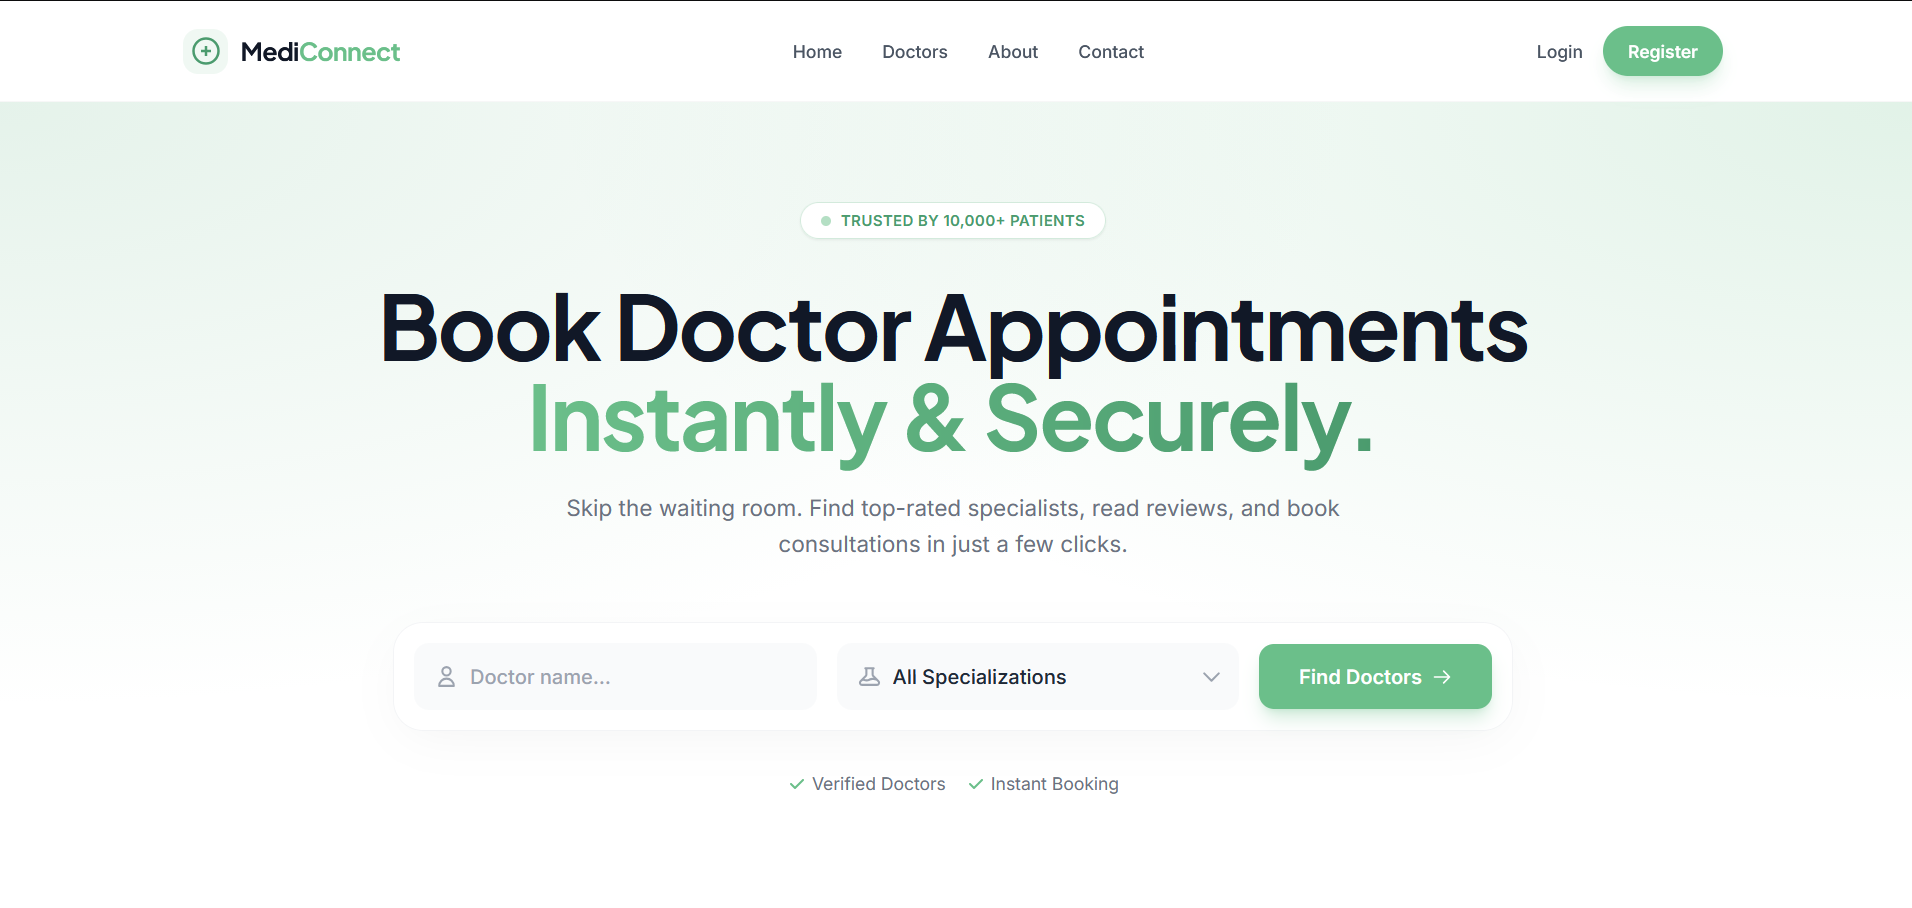
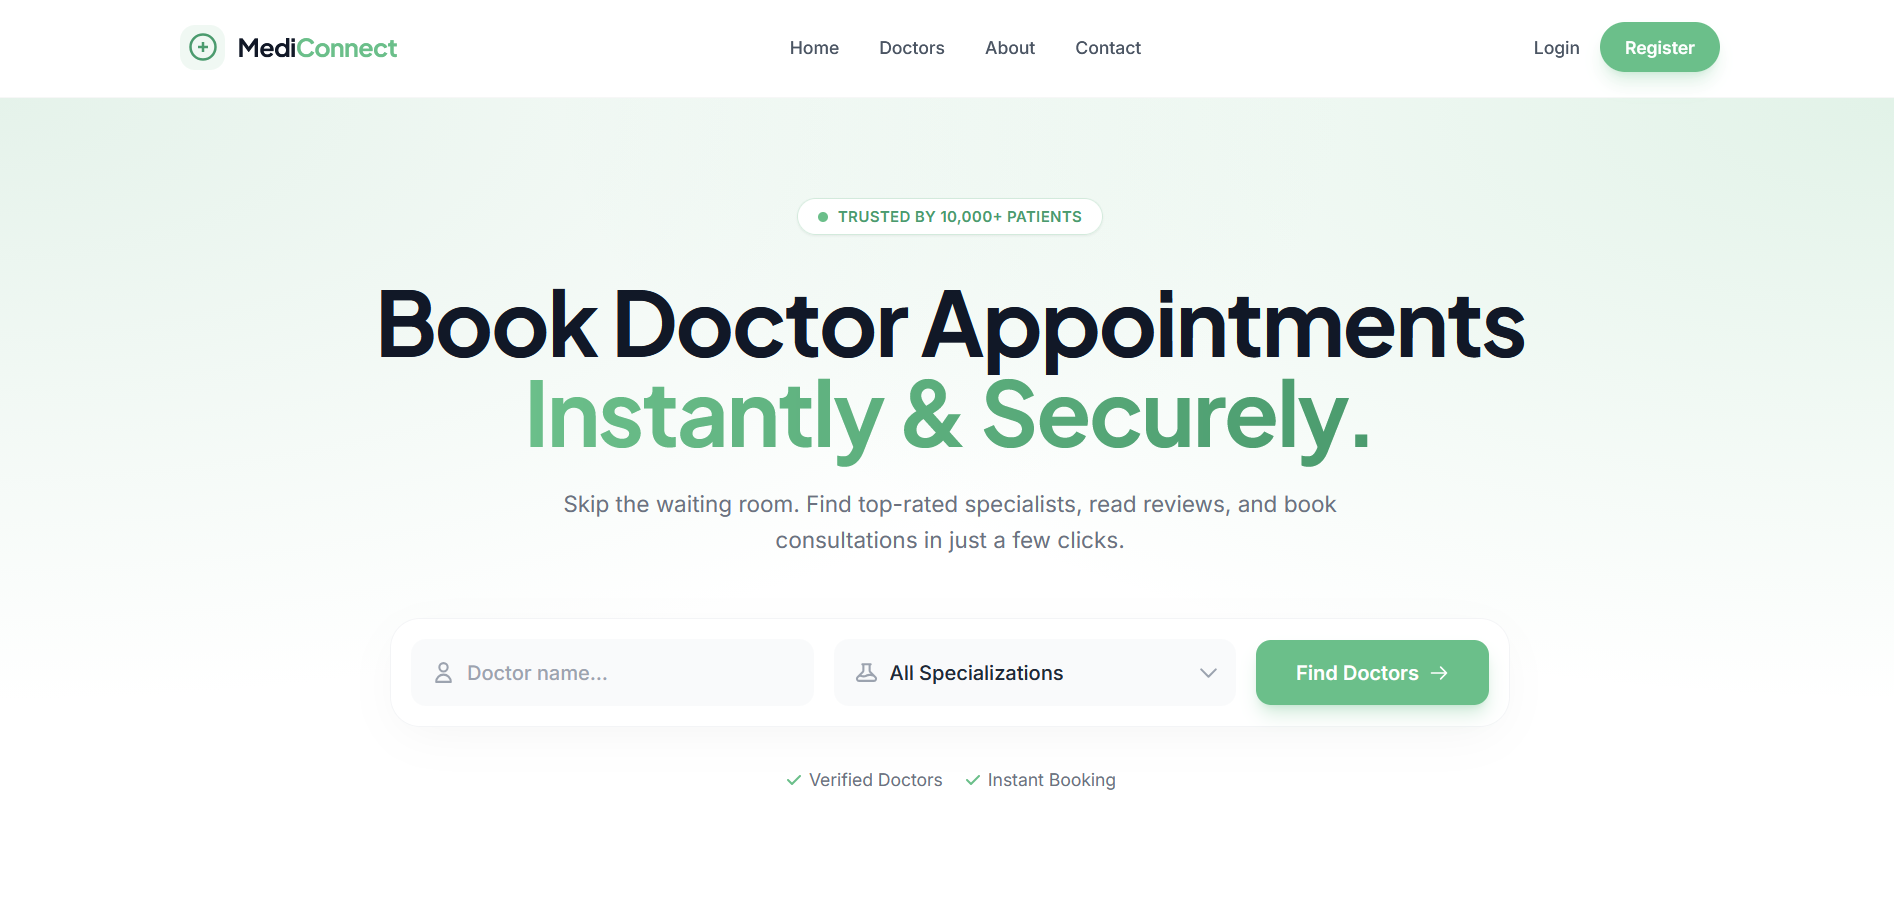
updated

diff --git a/src/components/sections/RecentProjects.jsx b/src/components/sections/RecentProjects.jsx
@@ -1,27 +1,61 @@
 
 import ProjectCard from "../utils/ProjectCard"
-import { RiBootstrapFill, RiCss3Fill, RiEyeLine, RiHtml5Fill, RiJavascriptFill, RiReactjsLine,RiTailwindCssFill,RiDatabaseFill, RiServerFill  } from "@remixicon/react"
+import { RiBootstrapFill, RiCss3Fill, RiEyeLine, RiHtml5Fill, RiJavascriptFill, RiReactjsLine, RiTailwindCssFill, RiDatabaseFill, RiServerFill } from "@remixicon/react"
 import { Link } from 'react-router-dom';
 
 const RecentProjects = () => {
 
-    const projectsData = [
-
-        {
+  const projectsData = [
+    
+    {
       id: 1,
-      title: "Logitech",
-      desc: "Responsive product landing page clone showcasing Logitech products, features and promotional sections.",
-      image: "/logitech.png",
-      tech: ["html", "css"],
+      title: "Mediconnect",
+      desc: "Online doctor appointment system for booking consultations and managing healthcare schedules.",
+      image: "/mediconnect.png",
+      tech: ["html", "tailwind", "javascript", "django", "SQLite3"],
       icons: [
         <RiHtml5Fill className="text-orange-600" />,
-        <RiCss3Fill className="text-blue-500" />,
-        <RiBootstrapFill className="text-purple-700" />
+        <RiTailwindCssFill className="text-teal-400" />,
+        <RiJavascriptFill className="text-yellow-400" />,
+        <RiServerFill className="text-green-600" />,
+        <RiDatabaseFill className="text-gray-500" />
       ],
-      liveLink: " https://duamehmood.github.io/Logitech/",
+      liveLink: "http://duamehmood.pythonanywhere.com/",
     },
     {
       id: 2,
+      title: "CityFix",
+      desc: "Civic tech platform supporting real-time crowd-sourced issue tracking and a community upvote prioritization system",
+      image: "/cityfix.png",
+      tech: ["html", "tailwind", "javascript", "django", "SQLite3"],
+
+      icons: [
+        <RiHtml5Fill className="text-orange-600" />,
+        <RiTailwindCssFill className="text-teal-400" />,
+        <RiJavascriptFill className="text-yellow-400" />,
+        <RiServerFill className="text-green-600" />,
+        <RiDatabaseFill className="text-gray-500" />
+      ],
+      liveLink: "http://cityfix.pythonanywhere.com/",
+
+    },
+    {
+      id: 3,
+      title: "Finect",
+      desc: " Financial platform with a modular React architecture that accelerated feature iteration and reduced UI development time by 25%",
+      image: "/finect.png",
+      tech: ["html", "tailwind", "javascript", "react"],
+      icons: [
+        <RiHtml5Fill className="text-orange-600" />,
+        <RiTailwindCssFill className="text-teal-400" />,
+        <RiJavascriptFill className="text-yellow-400" />,
+        <RiReactjsLine className="text-blue-300" />,
+
+      ],
+      liveLink: "https://finect.vercel.app/",
+    },
+    {
+      id: 4,
       title: "MovieDB",
       desc: "API-powered movie app displaying detailed information like genres, languages, and ratings.",
       image: "/moviedb.png",
@@ -33,64 +67,36 @@ const RecentProjects = () => {
         <RiReactjsLine className="text-blue-300" />,
       ],
       liveLink: "https://movie-db-dm-sigma.vercel.app",
-    },
-    {
-      id: 3,
-      title: "Fiver",
-      desc: "React-based freelance marketplace clone with gigs browsing and modern UI experience.",
-      image: "/fiver.png",
-      tech: ["html", "javascript", "bootstrap", "react"],
-      icons: [
-        <RiHtml5Fill className="text-orange-600" />,
-        <RiJavascriptFill className="text-yellow-400" />,
-        <RiBootstrapFill className="text-purple-700" />,
-        <RiReactjsLine className="text-blue-300" />,
-      ],
-      liveLink: "https://reactfiverclone.vercel.app",
-    },
-    {
-      id: 4,
-      title: "Mediconnect",
-      desc: "Online doctor appointment system for booking consultations and managing healthcare schedules.",
-      image: "/mediconnect.png",
-      tech: ["html", "tailwind", "javascript", "django" , "SQLite3"],
-      icons: [
-        <RiHtml5Fill className="text-orange-600" />,
-        <RiTailwindCssFill className="text-teal-400" />,
-        <RiJavascriptFill className="text-yellow-400" />,
-        <RiServerFill className="text-green-600" />,
-        <RiDatabaseFill className="text-gray-500" />
-      ],
-      liveLink: "http://duamehmood.pythonanywhere.com/",
+
     }
-    ];
+  ];
 
-    return (
-        <div className='pb-[100px] bg-primary text-white'>
-            <div className="container mx-auto">
-                <h2 className="text-center text-[32px] sm:text-[36px] md:text-[40px] lg:text-[48px] font-[600] pb-[30px] md:pb-[50px]">
-                    My <span className="text-secondary">recent projects</span>
-                </h2>
+  return (
+    <div className='pb-[100px] bg-primary text-white'>
+      <div className="container mx-auto">
+        <h2 className="text-center text-[32px] sm:text-[36px] md:text-[40px] lg:text-[48px] font-[600] pb-[30px] md:pb-[50px]">
+          My <span className="text-secondary">recent projects</span>
+        </h2>
 
-                <div className="grid grid-cols-6 md:grid-cols-6 gap-6">
-                    {projectsData.map((project) => (
-                        <div key={project.id} className="col-span-6 md:col-span-3">
-                            <ProjectCard project={project} />
-                        </div>
-                    ))}
-                </div>
-
-                <div className='flex justify-center lg:pt-[50px] md:pt-[30px] pt-[20px] font-[500] lg:text-[18px] text-[16px]'>
-                    <Link to="/projects">
-                        <button className='cursor-pointer text-white flex items-center md:px-[30px] px-[20px] md:py-[15px] py-[10px] gap-2 border-[1px] border-transparent rounded bg-gradient-to-r from-[#6971A266] to-[#272A3C80] hover:from-[#272A3C80] hover:to-[#6971A266] hover:border-secondary transition-all duration-200'>
-                            <RiEyeLine size="20" className="text-secondary" />  View All Projects
-                        </button>
-                    </Link>
-                </div>
-
+        <div className="grid grid-cols-6 md:grid-cols-6 gap-6">
+          {projectsData.map((project) => (
+            <div key={project.id} className="col-span-6 md:col-span-3">
+              <ProjectCard project={project} />
             </div>
+          ))}
         </div>
-    )
+
+        <div className='flex justify-center lg:pt-[50px] md:pt-[30px] pt-[20px] font-[500] lg:text-[18px] text-[16px]'>
+          <Link to="/projects">
+            <button className='cursor-pointer text-white flex items-center md:px-[30px] px-[20px] md:py-[15px] py-[10px] gap-2 border-[1px] border-transparent rounded bg-gradient-to-r from-[#6971A266] to-[#272A3C80] hover:from-[#272A3C80] hover:to-[#6971A266] hover:border-secondary transition-all duration-200'>
+              <RiEyeLine size="20" className="text-secondary" />  View All Projects
+            </button>
+          </Link>
+        </div>
+
+      </div>
+    </div>
+  )
 }
 
 export default RecentProjects

diff --git a/src/pages/Projects.jsx b/src/pages/Projects.jsx
@@ -37,6 +37,19 @@ const Projects = () => {
     },
     {
       id: 3,
+      title: "FitnessTracker",
+      desc: "A web application for tracking workouts, monitoring progress, and managing daily fitness goals.",
+      image: "/fitnesstracker.png",
+      tech: ["html", "tailwind", "react"],
+      icons: [
+        <RiHtml5Fill className="text-orange-600" />,
+        <RiTailwindCssFill className="text-teal-400" />,
+        <RiReactjsLine className="text-blue-300" />,
+      ],
+      liveLink: "https://fitness-tracker-dm.vercel.app",
+    },
+    {
+      id: 4,
       title: "MovieDB",
       desc: "API-powered movie app displaying detailed information like genres, languages, and ratings.",
       image: "/moviedb.png",
@@ -50,7 +63,7 @@ const Projects = () => {
       liveLink: "https://movie-db-dm-sigma.vercel.app",
     },
     {
-      id: 4,
+      id: 5,
       title: "Fiver",
       desc: "React-based freelance marketplace clone with gigs browsing and modern UI experience.",
       image: "/fiver.png",
@@ -64,11 +77,11 @@ const Projects = () => {
       liveLink: "https://reactfiverclone.vercel.app",
     },
     {
-      id: 5,
+      id: 6,
       title: "Mediconnect",
       desc: "Online doctor appointment system for booking consultations and managing healthcare schedules.",
       image: "/mediconnect.png",
-      tech: ["html", "tailwind", "javascript", "django" , "SQLite3"],
+      tech: ["html", "tailwind", "javascript", "django", "SQLite3"],
       icons: [
         <RiHtml5Fill className="text-orange-600" />,
         <RiTailwindCssFill className="text-teal-400" />,
@@ -78,20 +91,39 @@ const Projects = () => {
       ],
       liveLink: "http://duamehmood.pythonanywhere.com/",
     },
-     {
-      id: 6,
-      title: "FitnessTracker",
-      desc: "A web application for tracking workouts, monitoring progress, and managing daily fitness goals.",
-      image: "/fitnesstracker.png",
+    {
+      id: 7,
+      title: "CityFix",
+      desc: "Civic tech platform supporting real-time crowd-sourced issue tracking and a community upvote prioritization system",
+      image: "/cityfix.png",
+      tech: ["html", "tailwind", "javascript", "django", "SQLite3"],
+
+      icons: [
+        <RiHtml5Fill className="text-orange-600" />,
+        <RiTailwindCssFill className="text-teal-400" />,
+        <RiJavascriptFill className="text-yellow-400" />,
+        <RiServerFill className="text-green-600" />,
+        <RiDatabaseFill className="text-gray-500" />
+      ],
+      liveLink: "http://cityfix.pythonanywhere.com/",
+
+    },
+    {
+      id: 8,
+      title: "Finect",
+      desc: " Financial platform with a modular React architecture that accelerated feature iteration and reduced UI development time by 25%",
+      image: "/finect.png",
       tech: ["html", "tailwind", "javascript", "react"],
       icons: [
         <RiHtml5Fill className="text-orange-600" />,
         <RiTailwindCssFill className="text-teal-400" />,
         <RiJavascriptFill className="text-yellow-400" />,
         <RiReactjsLine className="text-blue-300" />,
+
       ],
-      liveLink: "https://fitness-tracker-dm.vercel.app",
+      liveLink: "https://finect.vercel.app/",
     },
+
 
   ];
 

diff --git a/src/components/sections/Services.jsx b/src/components/sections/Services.jsx
@@ -8,10 +8,10 @@ const Services = () => {
     const servicesData = [
         {
             id: 1,
-            title: "Figma to HTML",
-            desc: "Transforming your Figma designs into pixel-perfect HTML/CSS code.",
+            title: "Figma to Next.js",
+            desc: " Building SEO-friendly Next.js applications from your Figma designs.",
             icon1: "/figma.png",
-            icon2: "/html.png",
+            icon2: "/next.png",
         },
 
         {

diff --git a/src/components/sections/Navbar.jsx b/src/components/sections/Navbar.jsx
@@ -3,6 +3,7 @@
 import { RiMenu3Line, RiCloseFill, RiGithubFill, RiLinkedinBoxFill } from "@remixicon/react";
 import { useState, useEffect, useRef } from "react";
 import { NavLink } from "react-router-dom";
+import { Link } from "react-router-dom";
 
 const Navbar = () => {
     const [isOpen, setIsOpen] = useState(false);
@@ -36,7 +37,7 @@ const Navbar = () => {
         <nav className="bg-[#04071D] sticky top-0 z-[9999]">
             <div className="container mx-auto">
                 <div className="flex items-center justify-between py-6 md:gap-0 gap-4">
-                    <h2 className="font-bold text-[24px] text-secondary">Dua Mehmood</h2>
+                   <Link to="/"> <h2 className="font-bold text-[24px] text-secondary cursor-pointer">Dua Mehmood</h2></Link>
                     <ul className="hidden md:flex text-md md:gap-8 gap-1 text-white font-semibold">
                         {["/", "/projects", "/services", "/contact"].map((path, index) => {
                             const labels = ["Home", "Projects", "Services", "Contact"];